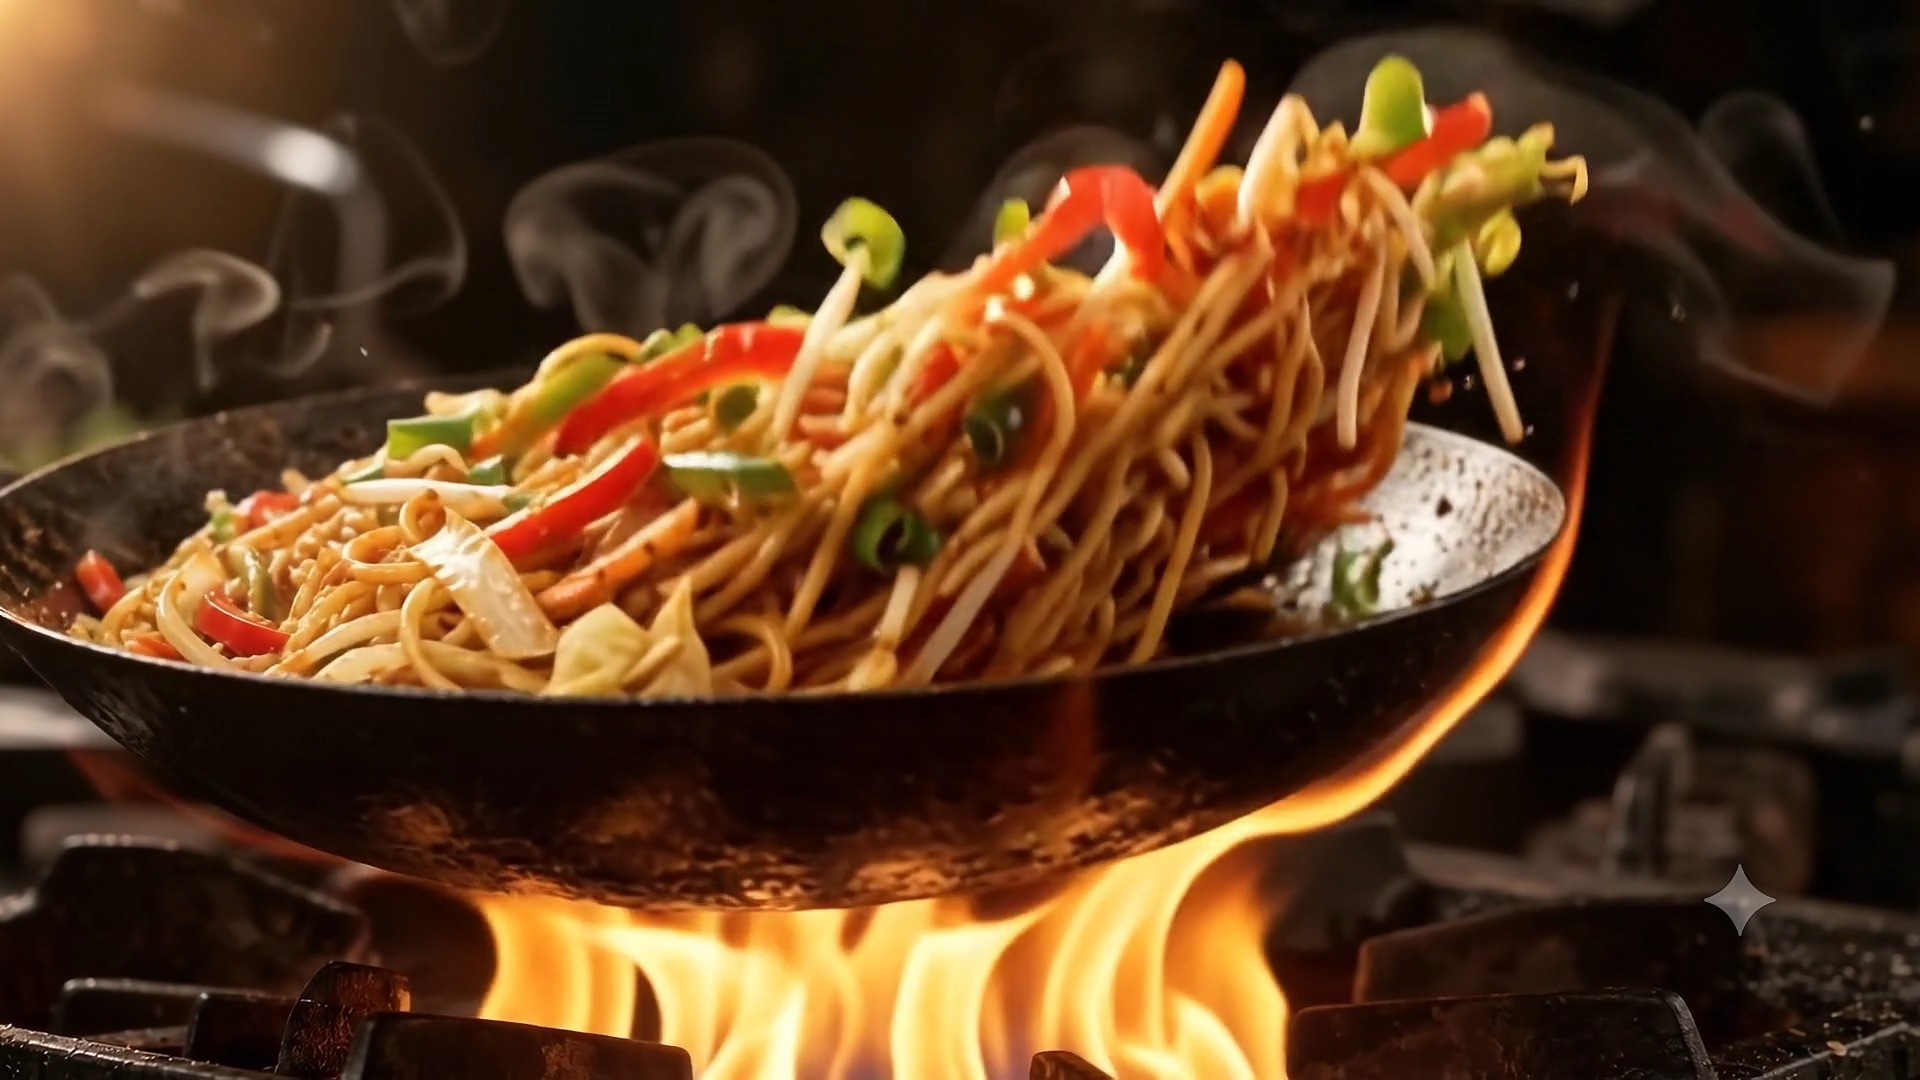
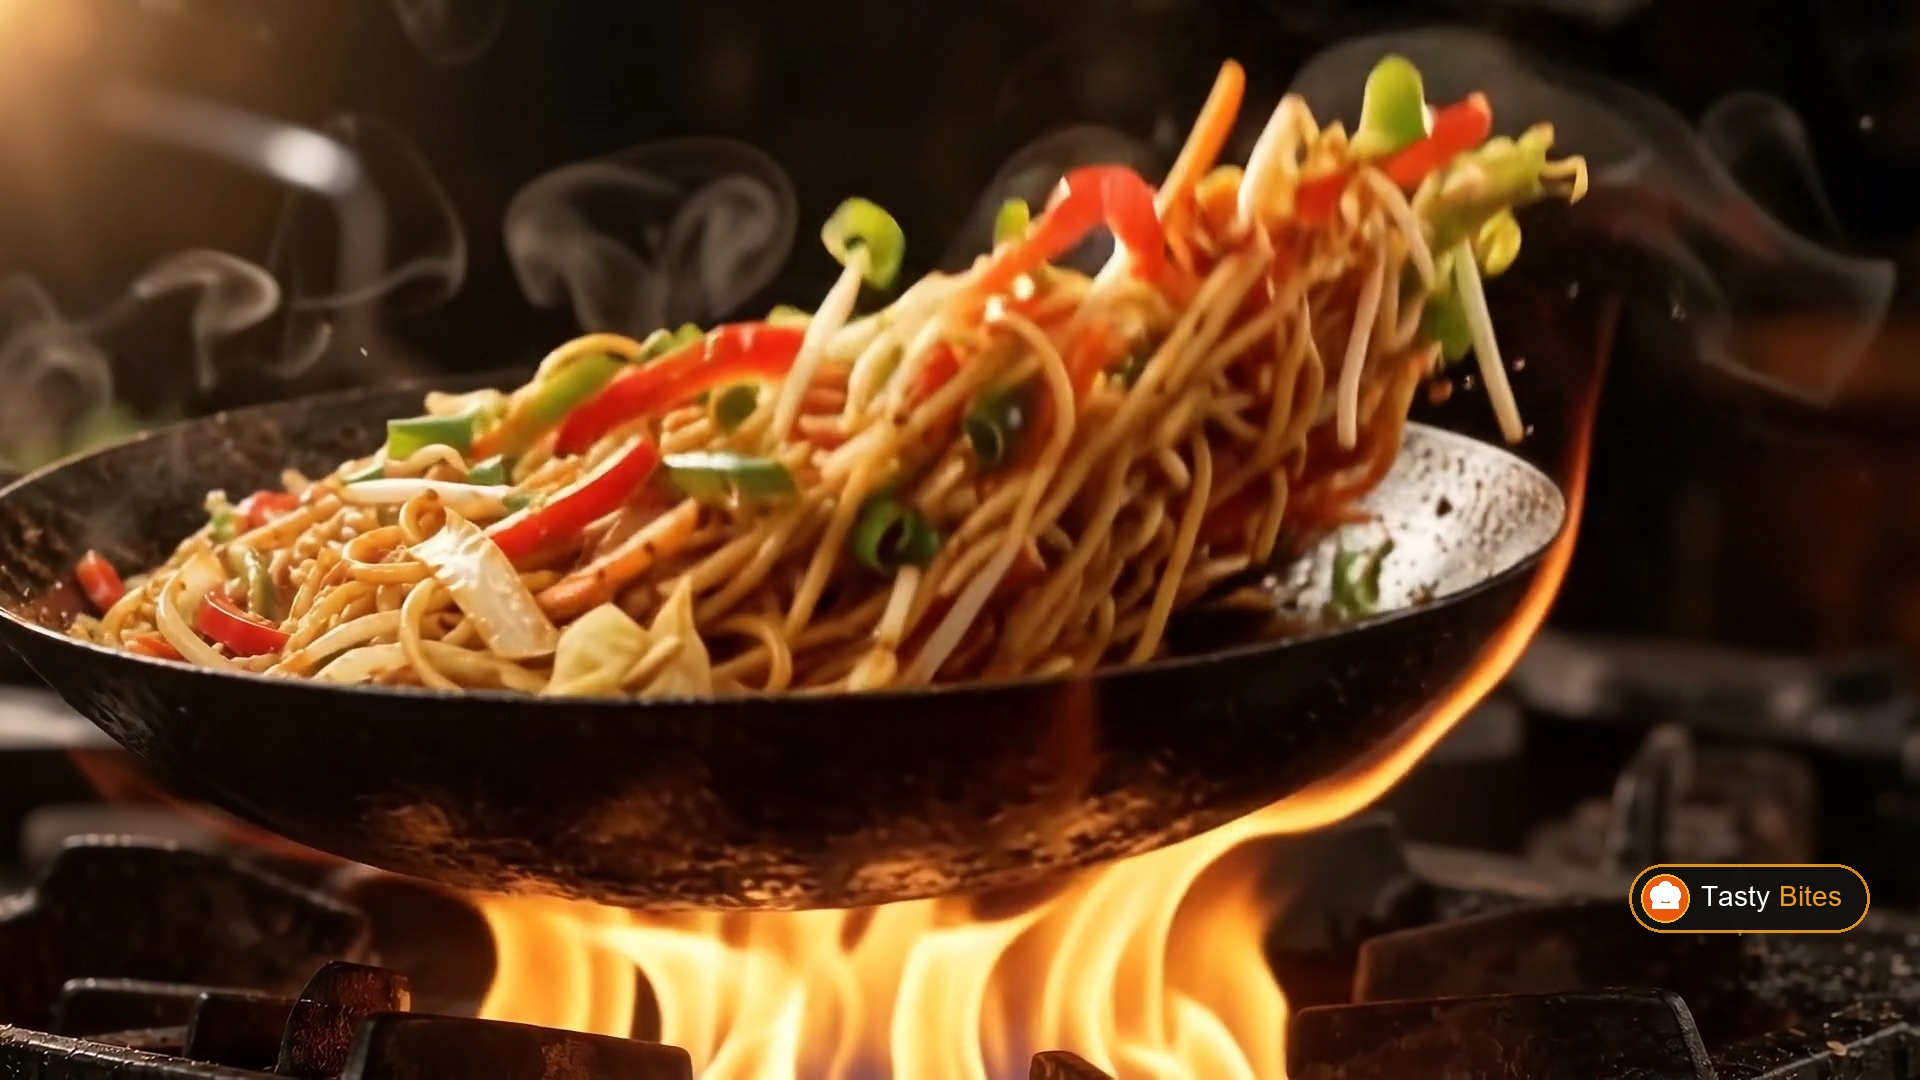
feat: synchronize culinary video playback and add Tasty Bites branding

Changed region(s): [[0.8438, 0.7944, 0.9688, 0.8861]]

diff --git a/src/components/Section1VideoShowcase.tsx b/src/components/Section1VideoShowcase.tsx
@@ -1,5 +1,5 @@
 import React, { useState, useRef, useEffect } from 'react';
-import { Play, Pause, Volume2, VolumeX, Maximize2, Sparkles, Flame, Plus, Minus } from 'lucide-react';
+import { Play, Pause, Volume2, VolumeX, Maximize2, Sparkles, Flame, Plus, Minus, ChefHat } from 'lucide-react';
 import { useApp } from '../context/AppContext';
 import { PRODUCTS } from '../data/products';
 
@@ -79,9 +79,28 @@ export const Section1VideoShowcase: React.FC = () => {
   const [isMuted, setIsMuted] = useState(true);
 
   const mainVideoRef = useRef<HTMLVideoElement>(null);
+  const previewVideoRef = useRef<HTMLVideoElement>(null);
+  const isSyncingRef = useRef<boolean>(false);
   const sectionRef = useRef<HTMLElement>(null);
 
-  // Auto pause when scrolled out of view to preserve resources
+  // Synchronize preview player with master player when selected video or play state changes
+  useEffect(() => {
+    const main = mainVideoRef.current;
+    const preview = previewVideoRef.current;
+    if (!main || !preview) return;
+
+    if (Math.abs(preview.currentTime - main.currentTime) > 0.05) {
+      preview.currentTime = main.currentTime;
+    }
+
+    if (isPlaying && preview.paused) {
+      preview.play().catch(() => {});
+    } else if (!isPlaying && !preview.paused) {
+      preview.pause();
+    }
+  }, [selectedVideo, isPlaying]);
+
+  // Auto pause when scrolled out of view to preserve system resources
   useEffect(() => {
     const video = mainVideoRef.current;
     if (!video) return;
@@ -91,9 +110,11 @@ export const Section1VideoShowcase: React.FC = () => {
         entries.forEach((entry) => {
           if (entry.isIntersecting) {
             video.play().catch(() => {});
+            previewVideoRef.current?.play().catch(() => {});
             setIsPlaying(true);
           } else {
             video.pause();
+            previewVideoRef.current?.pause();
             setIsPlaying(false);
           }
         });
@@ -108,14 +129,52 @@ export const Section1VideoShowcase: React.FC = () => {
     return () => observer.disconnect();
   }, []);
 
+  const handleMasterPlay = () => {
+    setIsPlaying(true);
+    if (previewVideoRef.current && previewVideoRef.current.paused) {
+      previewVideoRef.current.play().catch(() => {});
+    }
+  };
+
+  const handleMasterPause = () => {
+    setIsPlaying(false);
+    if (previewVideoRef.current && !previewVideoRef.current.paused) {
+      previewVideoRef.current.pause();
+    }
+  };
+
+  const handleMasterTimeUpdate = () => {
+    const main = mainVideoRef.current;
+    const preview = previewVideoRef.current;
+    if (!main || !preview || isSyncingRef.current) return;
+
+    const drift = Math.abs(preview.currentTime - main.currentTime);
+    if (drift > 0.15) {
+      isSyncingRef.current = true;
+      preview.currentTime = main.currentTime;
+      setTimeout(() => {
+        isSyncingRef.current = false;
+      }, 50);
+    }
+  };
+
+  const handleMasterSeeking = () => {
+    if (mainVideoRef.current && previewVideoRef.current) {
+      previewVideoRef.current.currentTime = mainVideoRef.current.currentTime;
+    }
+  };
+
   const togglePlay = () => {
     const video = mainVideoRef.current;
+    const preview = previewVideoRef.current;
     if (!video) return;
     if (video.paused) {
-      video.play();
+      video.play().catch(() => {});
+      preview?.play().catch(() => {});
       setIsPlaying(true);
     } else {
       video.pause();
+      preview?.pause();
       setIsPlaying(false);
     }
   };
@@ -131,12 +190,22 @@ export const Section1VideoShowcase: React.FC = () => {
     if (selectedVideo.id === item.id) return;
     setSelectedVideo(item);
     setIsPlaying(true);
+
     if (mainVideoRef.current) {
       mainVideoRef.current.pause();
+      mainVideoRef.current.currentTime = 0;
       mainVideoRef.current.poster = item.poster;
       mainVideoRef.current.src = item.src;
       mainVideoRef.current.load();
       mainVideoRef.current.play().catch(() => {});
+    }
+    if (previewVideoRef.current) {
+      previewVideoRef.current.pause();
+      previewVideoRef.current.currentTime = 0;
+      previewVideoRef.current.poster = item.poster;
+      previewVideoRef.current.src = item.src;
+      previewVideoRef.current.load();
+      previewVideoRef.current.play().catch(() => {});
     }
   };
 
@@ -218,7 +287,13 @@ export const Section1VideoShowcase: React.FC = () => {
                 loop
                 muted={isMuted}
                 playsInline
-                className="w-full h-full object-cover"
+                onPlay={handleMasterPlay}
+                onPause={handleMasterPause}
+                onTimeUpdate={handleMasterTimeUpdate}
+                onSeeking={handleMasterSeeking}
+                onSeeked={handleMasterSeeking}
+                onClick={togglePlay}
+                className="w-full h-full object-cover cursor-pointer"
               />
 
               {/* Gradient Vignettes */}
@@ -233,6 +308,20 @@ export const Section1VideoShowcase: React.FC = () => {
                 </span>
                 <span className="text-[11px] bg-black/60 backdrop-blur-md text-neutral-300 px-2.5 py-1 rounded-full border border-neutral-700">
                   {selectedVideo.category}
+                </span>
+              </div>
+
+              {/* Tasty Bites Official Branded Badge covering Google Flow watermark */}
+              <div
+                className="absolute z-15 pointer-events-none select-none flex items-center gap-1.5 px-2.5 py-1 rounded-full bg-neutral-950/85 backdrop-blur-md border border-amber-500/40 shadow-lg shadow-black/80"
+                style={{ left: '90.57%', top: '83.15%', transform: 'translate(-50%, -50%)' }}
+                title="TastyBites Culinary Cinema"
+              >
+                <div className="w-4 h-4 rounded-full bg-gradient-to-br from-amber-500 to-orange-600 flex items-center justify-center text-white border border-amber-400/70 shadow-sm shrink-0">
+                  <ChefHat className="w-2.5 h-2.5" />
+                </div>
+                <span className="font-extrabold text-[10px] tracking-tight text-white whitespace-nowrap">
+                  Tasty<span className="text-amber-400">Bites</span>
                 </span>
               </div>
 
@@ -371,19 +460,38 @@ export const Section1VideoShowcase: React.FC = () => {
                       : 'bg-neutral-900/60 border-neutral-800 hover:bg-neutral-800/70 hover:border-neutral-700'
                   }`}
                 >
-                  {/* Video Thumbnail Image */}
+                  {/* Video Thumbnail / Live Synced Preview Container */}
                   <div className="relative w-28 h-20 rounded-xl overflow-hidden bg-neutral-950 shrink-0 border border-neutral-700/60 shadow-xs">
-                    <img
-                      src={item.poster}
-                      alt={item.title}
-                      className="w-full h-full object-cover group-hover:scale-108 transition-transform duration-500"
-                      loading="lazy"
-                    />
-                    <div className="absolute inset-0 bg-black/25 flex items-center justify-center group-hover:bg-black/10 transition-colors">
-                      <div className="w-7 h-7 rounded-full bg-amber-500/90 text-neutral-950 flex items-center justify-center shadow-md">
-                        <Play className="w-3 h-3 fill-current ml-0.5" />
-                      </div>
+                    {isCurrent ? (
+                      <video
+                        ref={previewVideoRef}
+                        src={item.src}
+                        poster={item.poster}
+                        autoPlay
+                        loop
+                        muted
+                        playsInline
+                        className="w-full h-full object-cover pointer-events-none"
+                      />
+                    ) : (
+                      <img
+                        src={item.poster}
+                        alt={item.title}
+                        className="w-full h-full object-cover group-hover:scale-105 transition-transform duration-300 pointer-events-none"
+                        loading="lazy"
+                      />
+                    )}
+
+                    {/* Micro Branded Badge covering watermark in preview card */}
+                    <div
+                      className="absolute z-10 pointer-events-none select-none flex items-center justify-center w-3.5 h-3.5 rounded-full bg-gradient-to-br from-amber-500 to-orange-600 border border-amber-400/80 shadow-md text-white"
+                      style={{ left: '90.57%', top: '83.15%', transform: 'translate(-50%, -50%)' }}
+                      title="TastyBites"
+                    >
+                      <ChefHat className="w-2 h-2" />
                     </div>
+
+                    {/* Circular play icon overlay removed completely as per Requirement 1 */}
                   </div>
 
                   {/* Info details */}

diff --git a/src/components/VideoModal.tsx b/src/components/VideoModal.tsx
@@ -102,6 +102,20 @@ export const VideoModal: React.FC = () => {
             <source src={activeVideo.src} type="video/mp4" />
           </video>
 
+          {/* Tasty Bites Official Branded Badge covering Google Flow watermark */}
+          <div
+            className="absolute z-15 pointer-events-none select-none flex items-center gap-1.5 px-2.5 py-1 rounded-full bg-neutral-950/85 backdrop-blur-md border border-amber-500/40 shadow-lg shadow-black/80"
+            style={{ left: '90.57%', top: '83.15%', transform: 'translate(-50%, -50%)' }}
+            title="TastyBites Culinary Cinema"
+          >
+            <div className="w-4 h-4 rounded-full bg-gradient-to-br from-amber-500 to-orange-600 flex items-center justify-center text-white border border-amber-400/70 shadow-sm shrink-0">
+              <ChefHat className="w-2.5 h-2.5" />
+            </div>
+            <span className="font-extrabold text-[10px] tracking-tight text-white whitespace-nowrap">
+              Tasty<span className="text-amber-400">Bites</span>
+            </span>
+          </div>
+
           {/* Floating Audio Quick Toggle */}
           <button
             onClick={() => setIsMuted(!isMuted)}
